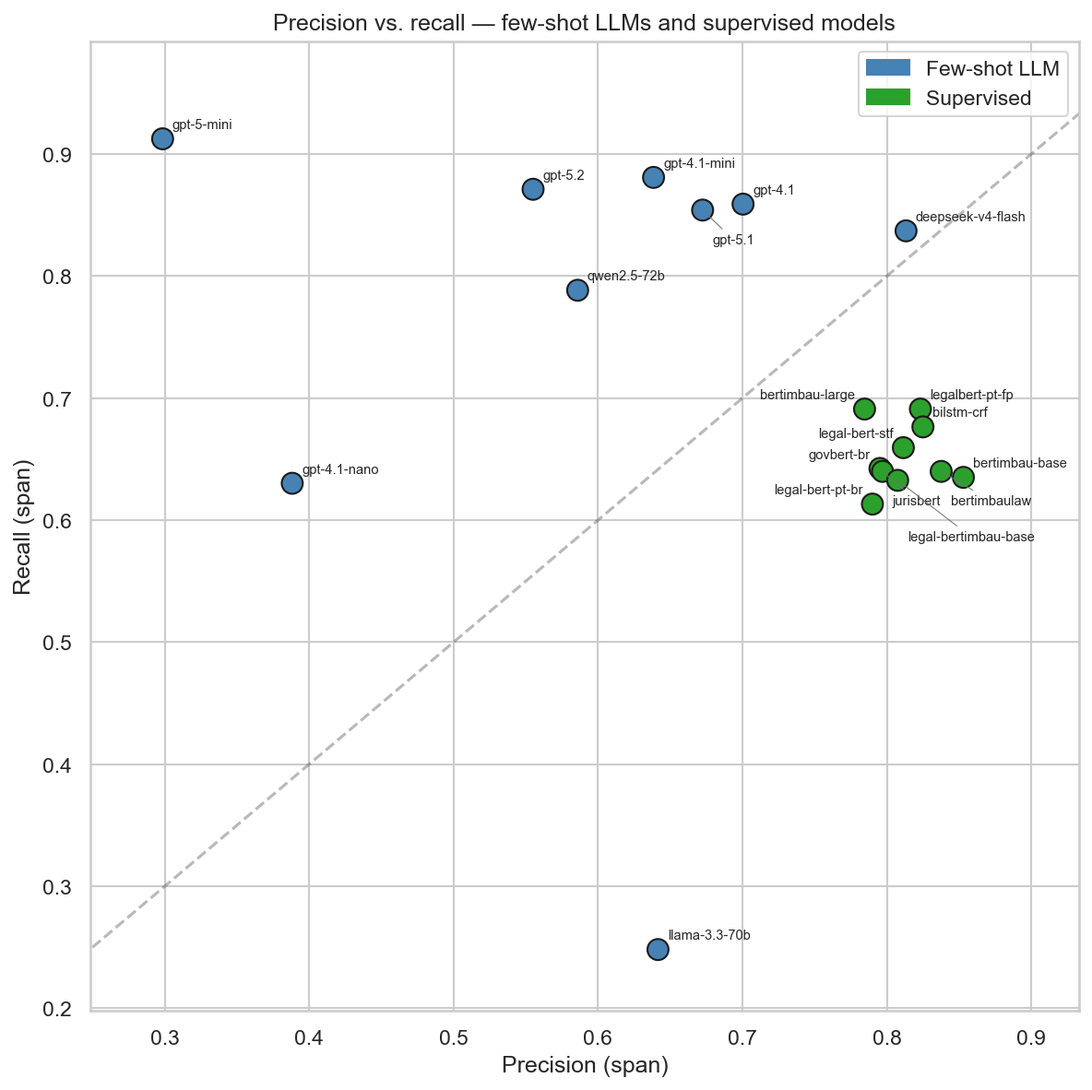
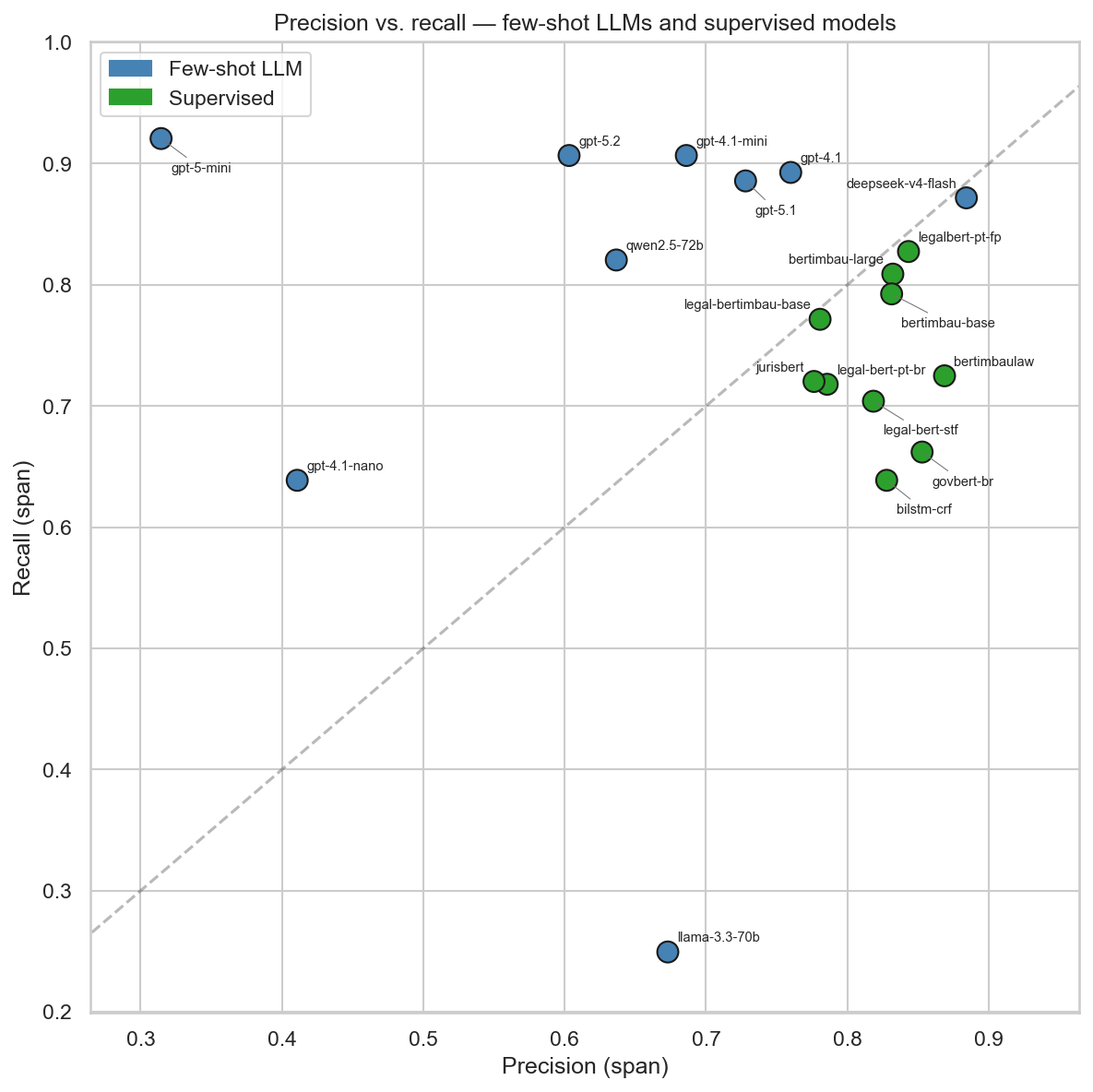
docs: atualizar o README e as datasheets para a release 1.3.0

diff --git a/README.md b/README.md
@@ -29,19 +29,19 @@ enforcement regime — translating them would misrepresent the corpus.
 
 | Label | What it is | Count |
 |---|---|---:|
-| `MULTA` | A pecuniary **fine** for administrative or fiscal misconduct | 203 |
-| `OBRIGACAO` | A binding **obligation** imposed on the audited body | 123 |
-| `RESSARCIMENTO` | A mandated **reimbursement** to the public treasury | 63 |
-| `RECOMENDACAO` | A formally documented, non-binding **recommendation** to the audited body | 22 |
+| `MULTA` | A pecuniary **fine** for administrative or fiscal misconduct | 209 |
+| `OBRIGACAO` | A binding **obligation** imposed on the audited body | 122 |
+| `RESSARCIMENTO` | A mandated **reimbursement** to the public treasury | 66 |
+| `RECOMENDACAO` | A formally documented, non-binding **recommendation** to the audited body | 32 |
 
 Recommendations and notices that a ruling addresses to the Court's own units (the
 external-control secretariat SECEX, the legal counsel CONJU) are internal acts the
 registry does not record, so they are not annotated (`research/annotation_scope.py`).
 
-**861 documents, 411 entities.** Only 202 documents carry an entity; the remaining
-659 are true negatives — filings and clean-account judgments with no registrable
+**861 documents, 429 entities.** Only 223 documents carry an entity; the remaining
+638 are true negatives — filings and clean-account judgments with no registrable
 command. They are kept deliberately: in production the system must also learn *not*
-to extract. Spans are long (per-class medians of 248–357 characters), so evaluation
+to extract. Spans are long (per-class medians of 246–372 characters), so evaluation
 uses partial matching (IoU ≥ 0.5) rather than exact boundaries.
 
 ## Get the data
@@ -54,7 +54,7 @@ no clone required. **Or, in a clone**, the bundles are under [`data/`](data)
 import json
 
 docs = [json.loads(line) for line in open("data/decicontas/decicontas.jsonl")]
-print(len(docs), sum(len(d["spans"]) for d in docs))   # 861 411
+print(len(docs), sum(len(d["spans"]) for d in docs))   # 861 429
 ```
 
 With HuggingFace `datasets`:
@@ -105,27 +105,29 @@ Holm correction over all 171 pairwise contrasts. LLM output strings are mapped t
 character offsets by an exact-first aligner (fuzzy fallback only for paraphrased strings).
 
 **Headline.** The best LLM, the open-weights **DeepSeek-V4-Flash** (macro span F1
-**0.799**), exceeds the strongest supervised baseline, the legal-domain
-**LegalBert-pt** (**0.613**), by +0.186, 95% CI [+0.097, +0.261], *p* < 0.001 — a
-contrast that survives Holm correction over all 171 pairs (*p*<sub>Holm</sub> < 0.001),
-as do the gaps to BERTimbau-large (0.605: +0.194) and BiLSTM-CRF (0.567: +0.230).
-No contrast among the ten supervised models survives Holm correction: LegalBert-pt
-differs from BERTimbau-large by +0.009, and the other six domain-adapted encoders
-(0.518–0.552) sit at the level of the generic BERTimbau-base (0.524). The gap to GPT-4.1
-(0.749) is +0.049, 95% CI [+0.016, +0.083], *p* = 0.002 — significant before but not
-after Holm correction (*p*<sub>Holm</sub> = 0.192), so the two share the leader group
-with GPT-5.1 (0.748). The advantage is concentrated on the rarest class: on
-`RECOMENDACAO` (22 instances) the leading LLMs reach span F1 0.737–0.778 against at
-most 0.231 for any supervised model, and five supervised models predict no
-recommendation at all. On micro span F1 the gap shrinks to +0.074 and LegalBert-pt
-(0.751) ranks fourth overall, behind three LLMs. Under exact boundary matching the
-picture inverts: all ten supervised models (0.397–0.522) beat all nine LLMs (at most
-0.373; LegalBert-pt 0.522 vs DeepSeek-V4-Flash 0.373).
+**0.871**), leads the strongest supervised baseline, the legal-domain **LegalBert-pt**
+(**0.821**), by +0.049, 95% CI [−0.004, +0.103], *p* = 0.070 — a difference that is not
+significant, and even less so after Holm correction over all 171 pairs
+(*p*<sub>Holm</sub> = 1.00). The leader's group — the models not distinguishable from
+DeepSeek-V4-Flash after the correction — holds three LLMs (GPT-4.1 0.823, GPT-5.1 0.811)
+and three encoders (LegalBert-pt, BERTimbau-large 0.813, BERTimbau-base 0.778); only
+the BiLSTM-CRF (0.621) and the other six domain-adapted encoders (0.585–0.702) are
+significantly behind. Among the supervised models, the three leaders are
+indistinguishable from one another (LegalBert-pt vs BERTimbau-large +0.009) and
+distinguishable from the other seven: 19 of the 45 supervised contrasts survive Holm
+correction, every one of them opposing a leader to one of the seven. The residual gap
+sits on the rarest class: on `RECOMENDACAO` (32 instances) the leading LLMs reach span
+F1 0.896–0.921, BERTimbau-large 0.821 and LegalBert-pt 0.787, while seven supervised
+models stay below 0.52. On micro span F1 the gap is +0.043 and LegalBert-pt (0.835)
+ranks second overall. Under exact boundary matching the picture inverts: all ten
+supervised models (0.446–0.686) beat all nine LLMs (at most 0.421; LegalBert-pt 0.686 vs
+DeepSeek-V4-Flash 0.421).
 
 ![Precision vs recall, all 19 models](paper/precision_recall.png)
 
-Supervised models favour precision (0.785–0.853) over recall (0.613–0.691);
-the leading LLMs lean toward recall (0.837–0.881, with precision 0.638–0.813). That profile motivates evaluating LLMs as
+Supervised models favour precision (0.776–0.869) over recall (0.639–0.828); GPT-4.1
+and GPT-5.1 lean toward recall (0.886–0.893, with precision 0.728–0.760), while the
+leader is balanced (0.884 / 0.872). That profile motivates evaluating LLMs as
 pre-annotators in a human-in-the-loop pipeline, although the relative cost of
 correcting insertions versus omissions was not measured.
 
@@ -134,25 +136,25 @@ correcting insertions versus omissions was not measured.
 
 | Model | Type | Token F1 | Span P | Span R | Span F1 (micro) | Span F1 (macro) |
 |---|---|---:|---:|---:|---:|---:|
-| DeepSeek-V4-Flash | LLM | 0.869 | 0.813 | 0.837 | 0.825 | **0.799** |
-| GPT-4.1 | LLM | 0.841 | 0.700 | 0.859 | 0.772 | 0.749 |
-| GPT-5.1 | LLM | 0.816 | 0.672 | 0.854 | 0.752 | 0.748 |
-| GPT-4.1-mini | LLM | 0.825 | 0.638 | 0.881 | 0.740 | 0.719 |
-| GPT-5.2 | LLM | 0.790 | 0.555 | 0.871 | 0.678 | 0.692 |
-| LegalBert-pt | supervised | 0.796 | 0.823 | 0.691 | 0.751 | 0.613 |
-| Qwen2.5-72B | LLM | 0.749 | 0.586 | 0.788 | 0.672 | 0.605 |
-| BERTimbau-large | supervised | 0.797 | 0.785 | 0.691 | 0.735 | 0.605 |
-| GPT-5-mini | LLM | 0.601 | 0.299 | 0.912 | 0.450 | 0.583 |
-| BiLSTM-CRF | supervised | 0.813 | 0.825 | 0.676 | 0.743 | 0.567 |
-| Legal-BERT-STF | supervised | 0.775 | 0.811 | 0.659 | 0.728 | 0.552 |
-| GovBERT-BR | supervised | 0.748 | 0.795 | 0.642 | 0.711 | 0.539 |
-| JurisBERT | supervised | 0.747 | 0.797 | 0.640 | 0.710 | 0.532 |
-| Legal-BERTimbau-base | supervised | 0.750 | 0.807 | 0.633 | 0.709 | 0.530 |
-| BERTimbauLaw | supervised | 0.761 | 0.838 | 0.640 | 0.726 | 0.527 |
-| BERTimbau-base | supervised | 0.750 | 0.853 | 0.635 | 0.728 | 0.524 |
-| LegalBERTPT-br | supervised | 0.734 | 0.790 | 0.613 | 0.690 | 0.518 |
-| GPT-4.1-nano | LLM | 0.623 | 0.388 | 0.630 | 0.481 | 0.435 |
-| Llama-3.3-70B | LLM | 0.416 | 0.642 | 0.248 | 0.358 | 0.250 |
+| DeepSeek-V4-Flash | LLM | 0.914 | 0.884 | 0.872 | 0.878 | **0.871** |
+| GPT-4.1 | LLM | 0.886 | 0.760 | 0.893 | 0.821 | 0.823 |
+| LegalBert-pt | supervised | 0.882 | 0.843 | 0.828 | 0.835 | 0.821 |
+| BERTimbau-large | supervised | 0.874 | 0.832 | 0.809 | 0.820 | 0.813 |
+| GPT-5.1 | LLM | 0.859 | 0.728 | 0.886 | 0.799 | 0.811 |
+| BERTimbau-base | supervised | 0.869 | 0.831 | 0.793 | 0.811 | 0.778 |
+| GPT-4.1-mini | LLM | 0.865 | 0.686 | 0.907 | 0.781 | 0.771 |
+| GPT-5.2 | LLM | 0.834 | 0.603 | 0.907 | 0.724 | 0.755 |
+| LegalBERTPT-br | supervised | 0.813 | 0.786 | 0.718 | 0.750 | 0.702 |
+| JurisBERT | supervised | 0.813 | 0.776 | 0.720 | 0.747 | 0.681 |
+| Legal-BERTimbau-base | supervised | 0.857 | 0.781 | 0.772 | 0.776 | 0.671 |
+| Qwen2.5-72B | LLM | 0.792 | 0.637 | 0.821 | 0.717 | 0.664 |
+| BERTimbauLaw | supervised | 0.825 | 0.869 | 0.725 | 0.790 | 0.643 |
+| GPT-5-mini | LLM | 0.624 | 0.314 | 0.921 | 0.469 | 0.629 |
+| Legal-BERT-STF | supervised | 0.812 | 0.818 | 0.704 | 0.757 | 0.625 |
+| BiLSTM-CRF | supervised | 0.830 | 0.828 | 0.639 | 0.721 | 0.621 |
+| GovBERT-BR | supervised | 0.774 | 0.853 | 0.662 | 0.745 | 0.585 |
+| GPT-4.1-nano | LLM | 0.643 | 0.411 | 0.639 | 0.500 | 0.451 |
+| Llama-3.3-70B | LLM | 0.425 | 0.673 | 0.249 | 0.364 | 0.267 |
 
 Source: [`model_evaluation/C_main_results.csv`](dataset/results/models_outputs/model_evaluation/C_main_results.csv).
 </details>
@@ -163,8 +165,8 @@ the BiLSTM-CRF takes up to 1,100 tokens, so no document is truncated
 (`research.release.check_alignment` verifies it). Supervised learning rate and warmup were selected once on
 a global 80/20 split rather than inside each cross-validation fold, which can bias
 supervised scores upward. The ranking is stable across IoU thresholds 0.3–0.7 and
-across all three reference annotations, but changes substantially under exact
-matching.
+across the pre-adjudication annotation and the two independent annotations, but
+changes substantially under exact matching.
 
 Every number cited in the paper is regenerated into
 [`model_evaluation/REPORT.md`](dataset/results/models_outputs/model_evaluation/REPORT.md), one section
@@ -178,6 +180,13 @@ Quality is measured, not asserted.
   flagged 794 suspicious token groups; the 567 above an ensemble confidence of 0.95
   were reviewed one by one, and only 23 (4.1%) were actually changed — the audit
   mostly *confirmed* the original annotation. Both versions ship, paired.
+- **Adjudication.** The divergences between the audited annotation and the two
+  independent annotators (167 items in 85 documents, matched at IoU ≥ 0.5) were
+  adjudicated one by one by the first author in an interface that shows the three
+  annotations and never a model prediction: 33 spans adopted, 90 rejected, 14 removed,
+  one re-delimited. The decisions ship in
+  [`dataset/errors/adjudication-decisions.json`](dataset/errors/adjudication-decisions.json)
+  and are applied as a second pass by `export_dataset`.
 - **Inter-annotator agreement.** The whole corpus was independently re-annotated,
   blind, by two staff of the Court unit that feeds the registry. Token-level Fleiss
   κ = **0.879** (pairwise Cohen's κ 0.864–0.899); pairwise span F1 between
@@ -230,7 +239,7 @@ decicontas.br/
 ## Dataset versions
 
 - **`decicontas/`** — the canonical release: 861 documents with the reviewed
-  cleanlab corrections applied.
+  cleanlab corrections and the adjudication decisions applied.
 - **`decicontas-before-correction/`** — the same 861 documents with the original gold
   annotations, so the effect of the audit can be measured.
 
@@ -247,9 +256,11 @@ Releases (git tags; `CITATION.cff` carries the current one):
   proceedings pseudonymised (synthetic names, one token per token; the names of the
   Court's members are kept). Annotations, token counts and every reported metric are
   unchanged; the few-shot exemplars and the stored LLM predictions follow the same map.
-  All results in the JURIX 2026 paper and in the dissertation refer to this release.
-- Planned — adjudication of the annotator-study disagreements and decisions validated
-  through the Court's human-in-the-loop registry pipeline.
+- **v1.3.0** — 2026-10-20: divergences between the audited annotation and the two
+  independent annotators adjudicated (167 items in 85 documents; +34 / −16 spans) and
+  applied as a second pass; 429 entities (32 `RECOMENDACAO`). All results in the
+  JURIX 2026 paper and in the dissertation refer to this release.
+- Planned — decisions validated through the Court's human-in-the-loop registry pipeline.
 
 ## Paper
 
@@ -279,7 +290,7 @@ GitHub renders it under *"Cite this repository"* — and is reproduced here; a Z
 will replace the URL once the release is archived.
 
 Lima EP, de Menezes-Neto EJ. *decicontas.br: a Named Entity Recognition dataset of Brazilian
-audit-court decisions* (version 1.2.0) [data set]. 2026. Available from:
+audit-court decisions* (version 1.3.0) [data set]. 2026. Available from:
 https://github.com/eduardoplima/decicontas.br. Licensed under CC BY 4.0.
 
 ```bibtex
@@ -289,7 +300,7 @@ https://github.com/eduardoplima/decicontas.br. Licensed under CC BY 4.0.
                   audit-court decisions},
   year         = {2026},
   howpublished = {\url{https://github.com/eduardoplima/decicontas.br}},
-  note         = {Version 1.2.0 (2026-10-17), CC BY 4.0}
+  note         = {Version 1.3.0 (2026-10-20), CC BY 4.0}
 }
 ```
 

diff --git a/dataset/release/DATASHEET.pt-BR.md b/dataset/release/DATASHEET.pt-BR.md
@@ -4,7 +4,7 @@
 
 Este documento segue o modelo *Datasheets for Datasets* (GEBRU, T. et al. Datasheets for datasets. *Communications of the ACM*, v. 64, n. 12, 2021. arXiv:1803.09010v8), respondendo pergunta a pergunta às sete seções propostas: motivação, composição, processo de coleta, pré-processamento/limpeza/rotulagem, usos, distribuição e manutenção. Perguntas não aplicáveis são respondidas com "N/A" e justificativa breve, conforme recomendado pelos autores.
 
-Versão do dataset documentada: **decicontas** (861 documentos, correções Cleanlab aplicadas), com a versão **decicontas-before-correction** distribuída em paralelo.
+Versão do dataset documentada: **decicontas** (861 documentos, correções Cleanlab e decisões de adjudicação aplicadas), com a versão **decicontas-before-correction** distribuída em paralelo.
 
 ---
 
@@ -36,7 +36,7 @@ Cada instância é o texto integral de uma decisão colegiada (acórdão ou deci
 
 **Quantas instâncias há no total (de cada tipo, se apropriado)?**
 
-861 documentos, totalizando 116.844 *tokens* e 754.555 caracteres. Desses, 202 documentos (23,5%) contêm ao menos uma entidade anotada e 659 (76,5%) são vazios — verdadeiros negativos, integralmente lidos e julgados sem comando registrável (arquivamentos, julgamentos de regularidade plena). Na versão corrigida há 411 entidades: 203 MULTA, 123 OBRIGACAO, 63 RESSARCIMENTO e 22 RECOMENDACAO (na versão antes das correções: 404 entidades — 202/119/62/21).
+861 documentos, totalizando 116.844 *tokens* e 754.555 caracteres. Desses, 223 documentos (25,9%) contêm ao menos uma entidade anotada e 638 (74,1%) são vazios — verdadeiros negativos, integralmente lidos e julgados sem comando registrável (arquivamentos, julgamentos de regularidade plena). Na versão corrigida e adjudicada há 429 entidades: 209 MULTA, 122 OBRIGACAO, 66 RESSARCIMENTO e 32 RECOMENDACAO (na versão antes das correções: 404 entidades — 202/119/62/21).
 
 **O dataset contém todas as instâncias possíveis ou é uma amostra (não necessariamente aleatória) de um conjunto maior?**
 
@@ -48,7 +48,7 @@ Texto bruto (não processado) da decisão, acompanhado dos artefatos derivados: 
 
 **Há um rótulo ou alvo associado a cada instância?**
 
-Sim. Cada *token* recebe um dos nove rótulos BIO: `O`, `B-/I-MULTA`, `B-/I-OBRIGACAO`, `B-/I-RESSARCIMENTO`, `B-/I-RECOMENDACAO`. As quatro categorias correspondem aos subcadastros do CGAD: MULTA (sanção pecuniária), OBRIGACAO (determinação vinculante de fazer/não fazer), RESSARCIMENTO (devolução de valores ao erário) e RECOMENDACAO (orientação não vinculante dirigida ao jurisdicionado). Deliberações dirigidas a unidades do próprio Tribunal — recomendações e cientificações à Secretaria de Controle Externo (SECEX) ou à Consultoria Jurídica (CONJU) — são atos de gestão interna que o CGAD não registra e não são anotadas. O esquema é *flat* — sem aninhamento nem sobreposição de *spans* (nas 411 entidades não há um único par sobreposto).
+Sim. Cada *token* recebe um dos nove rótulos BIO: `O`, `B-/I-MULTA`, `B-/I-OBRIGACAO`, `B-/I-RESSARCIMENTO`, `B-/I-RECOMENDACAO`. As quatro categorias correspondem aos subcadastros do CGAD: MULTA (sanção pecuniária), OBRIGACAO (determinação vinculante de fazer/não fazer), RESSARCIMENTO (devolução de valores ao erário) e RECOMENDACAO (orientação não vinculante dirigida ao jurisdicionado). Deliberações dirigidas a unidades do próprio Tribunal — recomendações e cientificações à Secretaria de Controle Externo (SECEX) ou à Consultoria Jurídica (CONJU) — são atos de gestão interna que o CGAD não registra e não são anotadas. O esquema é *flat* — sem aninhamento nem sobreposição de *spans* (nas 429 entidades não há um único par sobreposto).
 
 **Falta alguma informação em instâncias individuais?**
 
@@ -60,7 +60,7 @@ Não. As decisões são tratadas como documentos independentes. Decisões distin
 
 **Há divisões (splits) recomendadas (treino, validação, teste)?**
 
-Não há *split* fixo. O protocolo da dissertação usa validação cruzada de 5 *folds* no nível de documento (semente 1007) para os modelos supervisionados, e avaliação sobre os 861 documentos para os LLMs *few-shot*, com intervalos de confiança por *bootstrap* pareado de documento (B = 10.000, semente 42). Recomenda-se reportar macro-F1 de *span* (IoU ≥ 0,5) como métrica primária, dado o desbalanceamento entre classes, além do subconjunto informativo (231 documentos) em separado.
+Não há *split* fixo. O protocolo da dissertação usa validação cruzada de 5 *folds* no nível de documento (semente 1007) para os modelos supervisionados, e avaliação sobre os 861 documentos para os LLMs *few-shot*, com intervalos de confiança por *bootstrap* pareado de documento (B = 10.000, semente 42). Recomenda-se reportar macro-F1 de *span* (IoU ≥ 0,5) como métrica primária, dado o desbalanceamento entre classes, além do subconjunto informativo (223 documentos) em separado.
 
 **Há erros, fontes de ruído ou redundâncias conhecidas no dataset?**
 
@@ -116,7 +116,7 @@ O autor da dissertação (extração e anotação de referência) e duas anotado
 
 **Ao longo de que período os dados foram coletados? Esse período corresponde ao período de criação dos dados das instâncias?**
 
-Os textos anotados provêm de decisões proferidas em sessões realizadas entre julho de 2015 e maio de 2025, com 86,9% concentradas em 2024. A importação para o Label Studio e a anotação de referência ocorreram em junho de 2025; a auditoria Cleanlab e a revisão das correções foram concluídas em maio de 2026; a re-anotação independente pelas Anotadoras 2 e 3 ocorreu em agosto de 2026. O período de coleta é, portanto, próximo ao de criação dos documentos (decisões recentes, não um recorte histórico).
+Os textos anotados provêm de decisões proferidas em sessões realizadas entre julho de 2015 e maio de 2025, com 86,9% concentradas em 2024. A importação para o Label Studio e a anotação de referência ocorreram em junho de 2025; a auditoria Cleanlab e a revisão das correções foram concluídas em maio de 2026; a re-anotação independente pelas Anotadoras 2 e 3 ocorreu em agosto de 2026, e a adjudicação das divergências em outubro de 2026. O período de coleta é, portanto, próximo ao de criação dos documentos (decisões recentes, não um recorte histórico).
 
 **Foram conduzidos processos de revisão ética (por exemplo, por um comitê institucional)?**
 
@@ -191,7 +191,7 @@ Além de REN: extração estruturada de atributos das decisões (valores, prazos
 
 **Há algo na composição do dataset ou na forma como foi coletado e pré-processado/limpo/rotulado que possa impactar usos futuros?**
 
-Sim, quatro pontos: (i) **desbalanceamento** — MULTA concentra ~49% das entidades e 76,5% dos documentos são vazios; o micro-F1 é dominado pela classe majoritária e pela capacidade de abstenção, recomendando-se o macro-F1 de *span* e a análise do subconjunto informativo; (ii) **padrão-ouro de anotador único** — o estudo de concordância com duas anotadoras independentes (F1 de *span* par-a-par 0,776–0,838) fornece um teto humano de referência, mas as divergências não foram adjudicadas (em especial na classe RECOMENDACAO, a de menor concordância frente ao padrão-ouro) e os 227 grupos abaixo do limiar de revisão da auditoria mantêm o rótulo original; (iii) **recorte institucional e temporal** — um único tribunal (TCE/RN), com 86,9% das decisões de 2024; a transferência para outras Cortes de Contas, com formulários decisórios distintos, deve ser validada empiricamente; (iv) **mascaramento de CPFs** — modelos treinados no corpus não verão CPFs reais, o que afeta usos que dependam desse padrão numérico. O vocabulário do corpus também é distante do de corpora judiciais (Jaccard de 0,29 com o LeNER-Br nos 5.000 tipos mais frequentes), o que limita comparações diretas.
+Sim, quatro pontos: (i) **desbalanceamento** — MULTA concentra ~49% das entidades e 74,1% dos documentos são vazios; o micro-F1 é dominado pela classe majoritária e pela capacidade de abstenção, recomendando-se o macro-F1 de *span* e a análise do subconjunto informativo; (ii) **padrão-ouro de adjudicador único** — o estudo de concordância com duas anotadoras independentes (F1 de *span* par-a-par 0,776–0,838) fornece um teto humano de referência, e as divergências (concentradas na classe RECOMENDACAO, a de menor concordância) foram adjudicadas por uma única pessoa, o primeiro anotador; e os 227 grupos abaixo do limiar de revisão da auditoria mantêm o rótulo original; (iii) **recorte institucional e temporal** — um único tribunal (TCE/RN), com 86,9% das decisões de 2024; a transferência para outras Cortes de Contas, com formulários decisórios distintos, deve ser validada empiricamente; (iv) **mascaramento de CPFs** — modelos treinados no corpus não verão CPFs reais, o que afeta usos que dependam desse padrão numérico. O vocabulário do corpus também é distante do de corpora judiciais (Jaccard de 0,29 com o LeNER-Br nos 5.000 tipos mais frequentes), o que limita comparações diretas.
 
 **Há tarefas para as quais o dataset não deve ser usado?**
 
@@ -247,11 +247,11 @@ Eduardo Pereira Lima — `eduardo.lima.059@ufrn.edu.br`, ou via *issues* no repo
 
 **Há uma errata?**
 
-Sim, na prática: o arquivo `dataset/errors/dataset-corrections.json` documenta, decisão a decisão, todas as correções de rótulo aplicadas após a auditoria Cleanlab, e o par de versões `decicontas-before-correction`/`decicontas` materializa o antes/depois. Correções futuras seguirão o mesmo mecanismo, com registro no README do release.
+Sim, na prática: o arquivo `dataset/errors/dataset-corrections.json` documenta, decisão a decisão, todas as correções de rótulo aplicadas após a auditoria Cleanlab, o arquivo `dataset/errors/adjudication-decisions.json` faz o mesmo para a adjudicação das divergências entre anotadores, e o par de versões `decicontas-before-correction`/`decicontas` materializa o antes/depois. Correções futuras seguirão o mesmo mecanismo, com registro no README do release.
 
 **O dataset será atualizado (para corrigir erros de rotulagem, adicionar ou remover instâncias)?**
 
-Sim, se necessário. Correções de rótulo identificadas por usuários ou por novas rodadas de auditoria serão incorporadas via arquivo de correções versionado e novo release regenerado deterministicamente (`research.release.export_dataset`), com atualização do `MANIFEST.json`. As atualizações serão comunicadas pelo histórico do repositório GitHub (commits e *releases*).
+Sim, se necessário. Correções de rótulo identificadas por usuários ou por novas rodadas de auditoria serão incorporadas via arquivos versionados de correções e de adjudicação e novo release regenerado deterministicamente (`research.release.export_dataset`), com atualização do `MANIFEST.json`. As atualizações serão comunicadas pelo histórico do repositório GitHub (commits e *releases*).
 
 **Se o dataset se relaciona a pessoas, há limites aplicáveis à retenção dos dados (os indivíduos foram informados de que seus dados seriam retidos por período fixo)?**
 

diff --git a/dataset/release/DATASHEET.md b/dataset/release/DATASHEET.md
@@ -2,7 +2,7 @@
 
 This document follows the *Datasheets for Datasets* template (GEBRU, T. et al. Datasheets for datasets. *Communications of the ACM*, v. 64, n. 12, 2021. arXiv:1803.09010v8), answering, question by question, the seven proposed sections: motivation, composition, collection process, preprocessing/cleaning/labelling, uses, distribution and maintenance. Questions that do not apply are answered "N/A" with a brief justification, as the authors recommend.
 
-Documented dataset version: **decicontas** (861 documents, cleanlab corrections applied), distributed alongside **decicontas-before-correction**.
+Documented dataset version: **decicontas** (861 documents, cleanlab corrections and adjudication decisions applied), distributed alongside **decicontas-before-correction**.
 
 A Portuguese translation of this document is kept at [`DATASHEET.pt-BR.md`](DATASHEET.pt-BR.md).
 
@@ -36,7 +36,7 @@ Each instance is the full text of a collegiate decision (*acórdão* or *decisã
 
 **How many instances are there in total (of each type, if appropriate)?**
 
-861 documents, totalling 116,844 tokens and 754,555 characters. Of these, 202 documents (23.5%) contain at least one annotated entity and 659 (76.5%) are empty — true negatives, read in full and judged to carry no registrable command (filings, clean-account judgments). The corrected version holds 411 entities: 203 MULTA, 123 OBRIGACAO, 63 RESSARCIMENTO and 22 RECOMENDACAO (before corrections: 404 entities — 202/119/62/21).
+861 documents, totalling 116,844 tokens and 754,555 characters. Of these, 223 documents (25.9%) contain at least one annotated entity and 638 (74.1%) are empty — true negatives, read in full and judged to carry no registrable command (filings, clean-account judgments). The corrected and adjudicated version holds 429 entities: 209 MULTA, 122 OBRIGACAO, 66 RESSARCIMENTO and 32 RECOMENDACAO (before corrections: 404 entities — 202/119/62/21).
 
 **Does the dataset contain all possible instances or is it a sample (not necessarily random) of a larger set?**
 
@@ -48,7 +48,7 @@ Raw (unprocessed) decision text, accompanied by derived artefacts: token list, p
 
 **Is there a label or target associated with each instance?**
 
-Yes. Each token receives one of nine BIO labels: `O`, `B-/I-MULTA`, `B-/I-OBRIGACAO`, `B-/I-RESSARCIMENTO`, `B-/I-RECOMENDACAO`. The four categories map onto the CGAD subregistries: MULTA (pecuniary sanction), OBRIGACAO (binding order to do or refrain from doing), RESSARCIMENTO (reimbursement to the treasury) and RECOMENDACAO (non-binding guidance addressed to the audited body). Deliberations addressed to the Tribunal's own units — recommendations and notices to the external-control secretariat (SECEX) or the legal counsel (CONJU) — are internal management acts that the CGAD does not record, and are not annotated. The scheme is flat — no nesting and no overlapping spans (across the 411 entities there is not a single overlapping pair).
+Yes. Each token receives one of nine BIO labels: `O`, `B-/I-MULTA`, `B-/I-OBRIGACAO`, `B-/I-RESSARCIMENTO`, `B-/I-RECOMENDACAO`. The four categories map onto the CGAD subregistries: MULTA (pecuniary sanction), OBRIGACAO (binding order to do or refrain from doing), RESSARCIMENTO (reimbursement to the treasury) and RECOMENDACAO (non-binding guidance addressed to the audited body). Deliberations addressed to the Tribunal's own units — recommendations and notices to the external-control secretariat (SECEX) or the legal counsel (CONJU) — are internal management acts that the CGAD does not record, and are not annotated. The scheme is flat — no nesting and no overlapping spans (across the 429 entities there is not a single overlapping pair).
 
 **Is any information missing from individual instances?**
 
@@ -60,7 +60,7 @@ No. Decisions are treated as independent documents. Distinct decisions may refer
 
 **Are there recommended data splits (training, validation, test)?**
 
-There is no fixed split. The dissertation protocol uses 5-fold cross-validation at the document level (seed 1007) for the supervised models, and evaluation over all 861 documents for the few-shot LLMs, with confidence intervals from a paired document-level bootstrap (B = 10,000, seed 42). We recommend reporting macro span F1 (IoU ≥ 0.5) as the primary metric, given the class imbalance, alongside the informative subset (231 documents) reported separately.
+There is no fixed split. The dissertation protocol uses 5-fold cross-validation at the document level (seed 1007) for the supervised models, and evaluation over all 861 documents for the few-shot LLMs, with confidence intervals from a paired document-level bootstrap (B = 10,000, seed 42). We recommend reporting macro span F1 (IoU ≥ 0.5) as the primary metric, given the class imbalance, alongside the informative subset (223 documents) reported separately.
 
 **Are there any errors, sources of noise, or redundancies in the dataset?**
 
@@ -120,7 +120,7 @@ The dissertation author (extraction and reference annotation) and two annotators
 
 **Over what timeframe was the data collected? Does this timeframe match the creation timeframe of the data associated with the instances?**
 
-The annotated texts come from decisions issued in sessions held between July 2015 and May 2025, with 86.9% concentrated in 2024 and a sparse tail over the earlier years. Import into Label Studio and the reference annotation took place in June 2025; the cleanlab audit and the review of corrections were completed in May 2026; the independent re-annotation by Annotators 2 and 3 took place in August 2026. The collection timeframe is therefore close to the creation timeframe of the documents.
+The annotated texts come from decisions issued in sessions held between July 2015 and May 2025, with 86.9% concentrated in 2024 and a sparse tail over the earlier years. Import into Label Studio and the reference annotation took place in June 2025; the cleanlab audit and the review of corrections were completed in May 2026; the independent re-annotation by Annotators 2 and 3 took place in August 2026, and the adjudication of the divergences in October 2026. The collection timeframe is therefore close to the creation timeframe of the documents.
 
 **Were any ethical review processes conducted (e.g., by an institutional review board)?**
 
@@ -195,7 +195,7 @@ Beyond NER: structured extraction of decision attributes (amounts, deadlines, re
 
 **Is there anything about the composition of the dataset or the way it was collected and preprocessed/cleaned/labelled that might impact future uses?**
 
-Yes, four points: (i) **imbalance** — MULTA concentrates ~49% of entities and 76.5% of documents are empty; micro F1 is dominated by the majority class and by the ability to abstain, so macro span F1 and the informative-subset analysis are recommended; (ii) **single-annotator gold standard** — the agreement study with two independent annotators (pairwise span F1 0.776–0.838) provides a human reference ceiling, but divergences were not adjudicated (particularly for RECOMENDACAO, the class with the lowest agreement against the gold), and the 227 groups below the audit review threshold keep their original label; (iii) **institutional and temporal scope** — a single court (TCE/RN), with 86.9% of the decisions from 2024; transfer to other Courts of Accounts, with different decision templates, must be validated empirically; (iv) **CPF masking** — models trained on the corpus will never see real CPF numbers, which affects uses that depend on that numeric pattern. The corpus vocabulary is also distant from judicial corpora (Jaccard of 0.29 with LeNER-Br over the 5,000 most frequent types), which limits direct comparisons.
+Yes, four points: (i) **imbalance** — MULTA concentrates ~49% of entities and 74.1% of documents are empty; micro F1 is dominated by the majority class and by the ability to abstain, so macro span F1 and the informative-subset analysis are recommended; (ii) **single-adjudicator gold standard** — the agreement study with two independent annotators (pairwise span F1 0.776–0.838) provides a human reference ceiling, and the divergences (concentrated in RECOMENDACAO, the class with the lowest agreement) were adjudicated by a single person, the first annotator; and the 227 groups below the audit review threshold keep their original label; (iii) **institutional and temporal scope** — a single court (TCE/RN), with 86.9% of the decisions from 2024; transfer to other Courts of Accounts, with different decision templates, must be validated empirically; (iv) **CPF masking** — models trained on the corpus will never see real CPF numbers, which affects uses that depend on that numeric pattern. The corpus vocabulary is also distant from judicial corpora (Jaccard of 0.29 with LeNER-Br over the 5,000 most frequent types), which limits direct comparisons.
 
 **Are there tasks for which the dataset should not be used?**
 
@@ -251,11 +251,11 @@ Eduardo Pereira Lima — `eduardo.lima.059@ufrn.edu.br`, or through issues in th
 
 **Is there an erratum?**
 
-Yes, in practice: the file `dataset/errors/dataset-corrections.json` documents, decision by decision, every label correction applied after the cleanlab audit, and the version pair `decicontas-before-correction`/`decicontas` materialises the before/after. Future corrections will follow the same mechanism, recorded in the release README.
+Yes, in practice: the file `dataset/errors/dataset-corrections.json` documents, decision by decision, every label correction applied after the cleanlab audit, and `dataset/errors/adjudication-decisions.json` does the same for the adjudication of the divergences between annotators, and the version pair `decicontas-before-correction`/`decicontas` materialises the before/after. Future corrections will follow the same mechanism, recorded in the release README.
 
 **Will the dataset be updated (to correct labelling errors, add or remove instances)?**
 
-Yes, if needed. Label corrections identified by users or by new audit rounds will be incorporated through the versioned corrections file and a new release regenerated deterministically (`research.release.export_dataset`), with `MANIFEST.json` updated. Updates will be communicated through the GitHub repository history (commits and releases).
+Yes, if needed. Label corrections identified by users or by new audit rounds will be incorporated through the versioned corrections and adjudication files and a new release regenerated deterministically (`research.release.export_dataset`), with `MANIFEST.json` updated. Updates will be communicated through the GitHub repository history (commits and releases).
 
 **If the dataset relates to people, are there applicable limits on the retention of the data (were individuals told their data would be retained for a fixed period)?**
 
